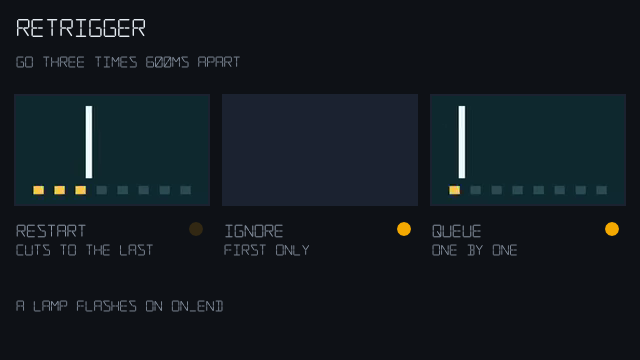
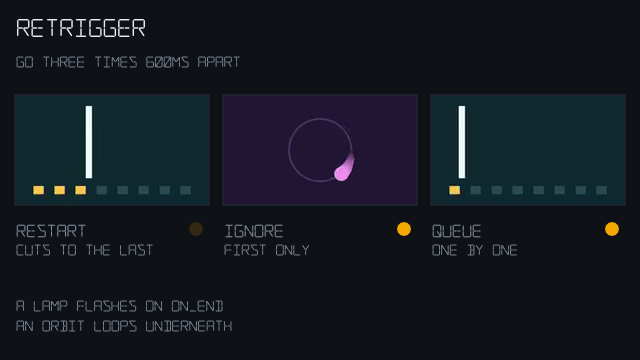
feat(features): loop a background under the retrigger screens (#130)
Each screen of the video retrigger example now has a looping orbit
underneath, which shows through once its clip has nothing left to play.

Example pages no longer say that video does not play in the browser;
the web player plays it.

Closes #31

Changed region(s): [[0.0, 0.8861, 0.375, 0.9472], [0.4688, 0.4278, 0.5625, 0.5194], [0.4375, 0.3667, 0.4688, 0.3972]]

diff --git a/site/example.html b/site/example.html
@@ -19,13 +19,6 @@
   <div class="crumbs"><a href="./">Examples</a> / <span id="category"></span></div>
   <h1 id="title"></h1>
   <p class="lead" id="description"></p>
-  <div class="native-note" id="video-note" hidden>
-    <p>Video does not play in the browser yet, so the clips stay blank here. To see this show, run it with
-      the native player from a <a href="https://github.com/cuelight-org/cuelight">cuelight</a> checkout next to
-      this repository:</p>
-    <pre id="video-command"></pre>
-  </div>
-
   <div class="stage" id="stage"><canvas id="canvas" tabindex="0"></canvas></div>
   <p class="status" id="input-note" hidden></p>
   <div class="transport" id="transport" hidden>
@@ -190,10 +183,6 @@ async function showSource(file) {
 }
 for (const tab of document.querySelectorAll(".tab")) tab.onclick = () => showSource(tab.dataset.file);
 await showSource("show.json");
-// The web player draws nothing for a video layer yet: say so, and how to
-// see the show as it is meant.
-$("video-note").hidden = !/"type"\s*:\s*"video"/.test(sources["show.json"]);
-$("video-command").textContent = `cargo run -p cuelight-player --features video -- ../cuelight-examples/${example.path}`;
 
 let player;
 let CuelightPlayer;

diff --git a/site/site.css b/site/site.css
@@ -83,6 +83,3 @@ pre#source { margin: 0; padding: 12px; overflow: auto; max-height: 70vh; font-si
 .j-key { color: #9cdcfe; } .j-str { color: #ce9178; } .j-num { color: #b5cea8; } .j-lit { color: #569cd6; }
 .pager { display: flex; justify-content: space-between; gap: 16px; margin-top: 24px; font-size: 14px; }
 footer { margin-top: 48px; font-size: 13px; color: var(--muted); }
-.native-note { margin: 0 0 16px; padding: 10px 14px; border-left: 3px solid var(--accent); background: var(--panel); border-radius: 4px; }
-.native-note p { margin: 0 0 8px; color: var(--muted); font-size: 14px; }
-.native-note pre { margin: 0; font-family: ui-monospace, monospace; font-size: 13px; overflow-x: auto; }

diff --git a/tools/feature_videos.py b/tools/feature_videos.py
@@ -41,7 +41,7 @@ ROOT = Path(__file__).resolve().parent.parent / "features/video"
 # folder plays on its own.
 USERS = {
     "sweep": ["video_layer", "retrigger", "one_clip_many_plays"],
-    "orbit": ["video_layer", "masked", "when_while"],
+    "orbit": ["video_layer", "retrigger", "masked", "when_while"],
     "pop_c": ["video_layer", "pick", "bound_video", "when_while"],
     "pop_e": ["pick", "bound_video", "when_while"],
     "pop_g": ["pick", "bound_video"],
